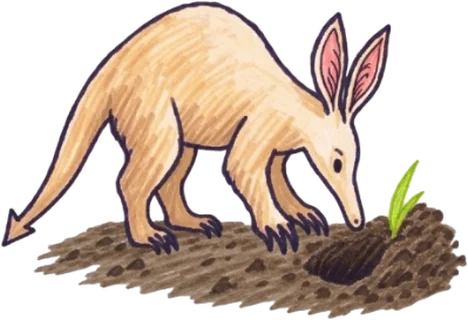
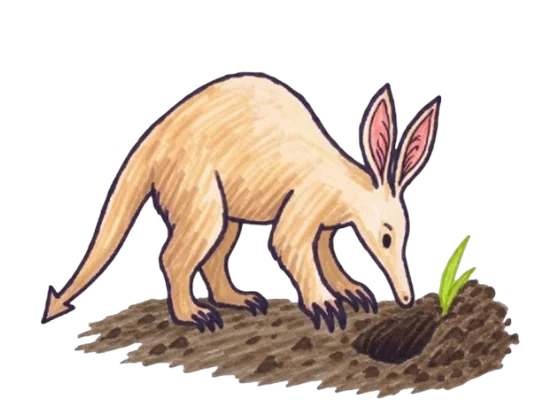
Give both empty-screen drawings one canvas and one scale
The two versions were framed differently, so the aardvark came out larger in one theme than the other and the picture jumped when the theme changed. Both are now drawn on the same 560x400 canvas with the animal at one size and the ground at the bottom edge, and the stylesheet gives them a single size.

diff --git a/trackhound/web/style.css b/trackhound/web/style.css
@@ -582,10 +582,7 @@ p { margin: 0; }
 .empty .icon { width: 26px; height: 26px; margin-bottom: 6px; stroke-width: 1.5; }
 /* An empty screen is drawn, not lettered: the aardvark of the logo, in the two
    versions a light and a dark page each need */
-.empty .scene { height: 150px; width: auto; max-width: 100%; margin-bottom: 4px; }
-/* The two drawings frame the animal differently, so the light one is given
-   the height that makes the aardvark itself the same size in both themes */
-.empty .scene-light { height: 176px; }
+.empty .scene { height: 168px; width: auto; max-width: 100%; margin-bottom: 4px; }
 .empty .scene-dark { display: none; }
 :root[data-theme="dark"] .empty .scene-light { display: none; }
 :root[data-theme="dark"] .empty .scene-dark { display: block; }
